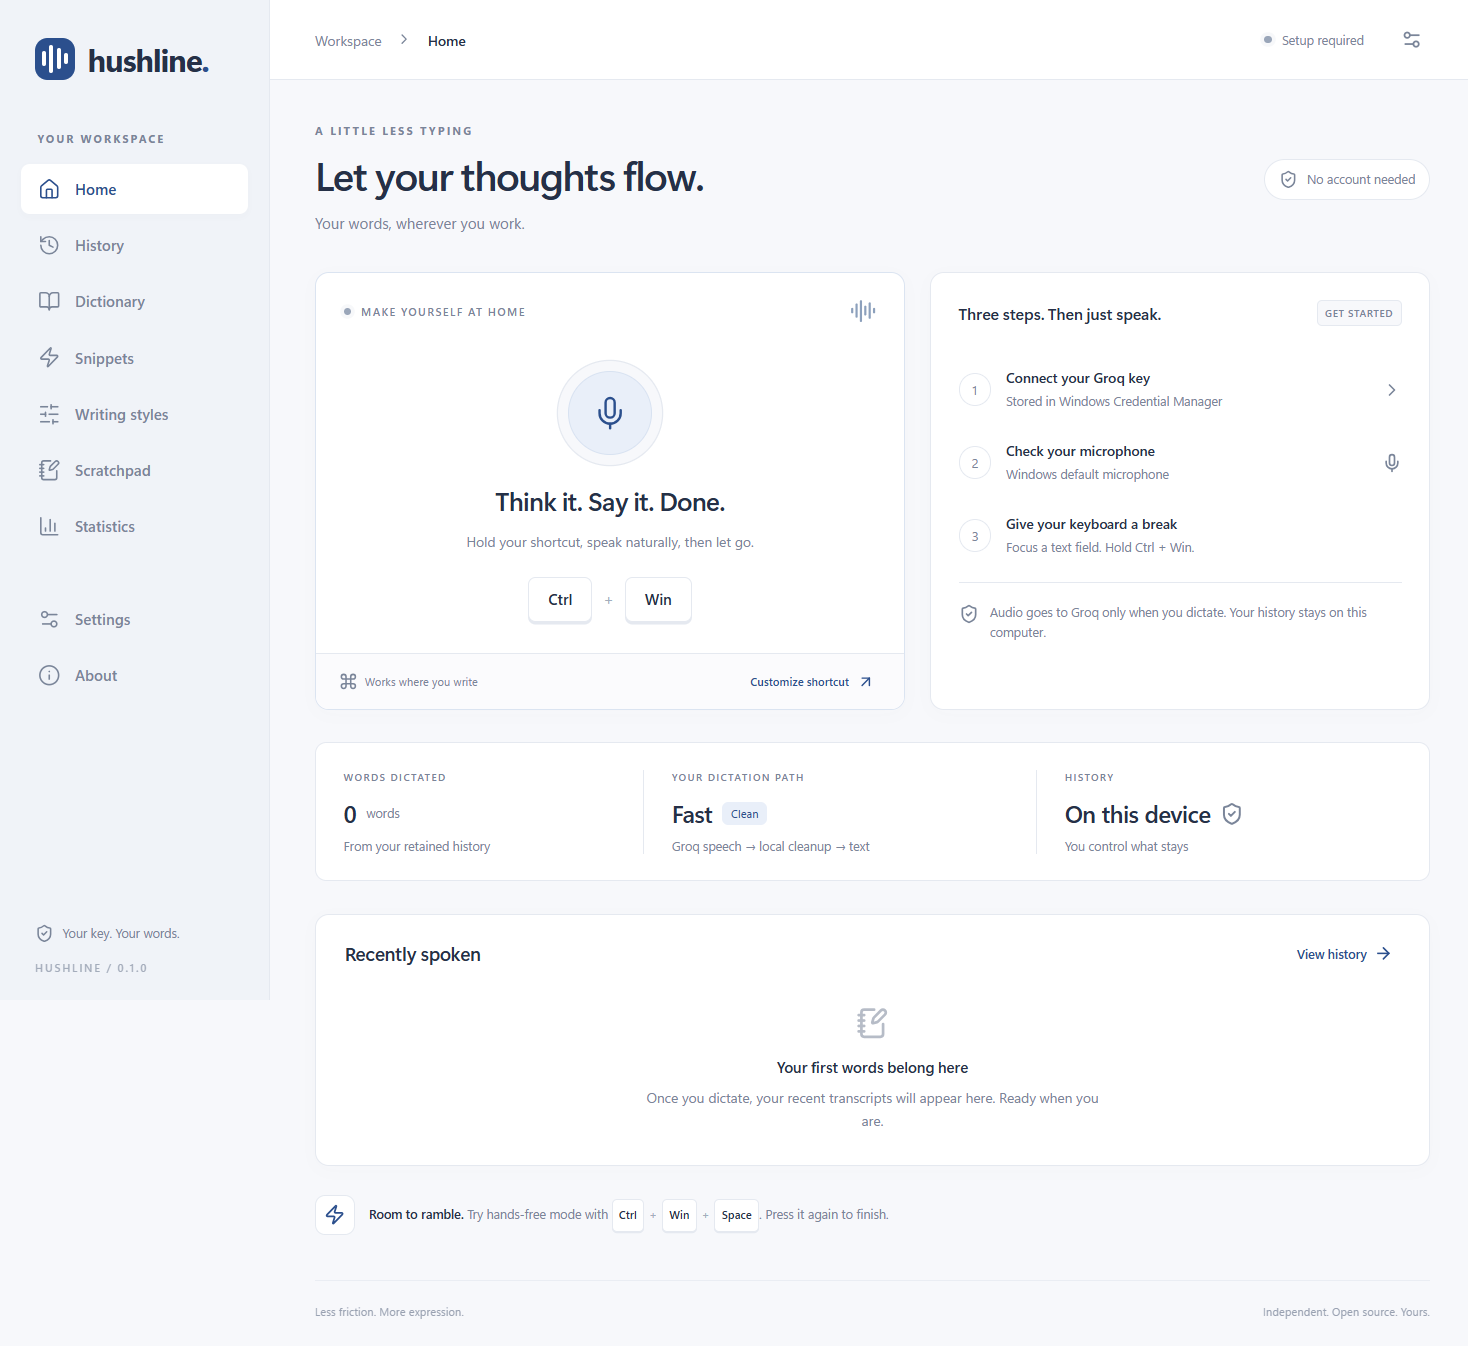
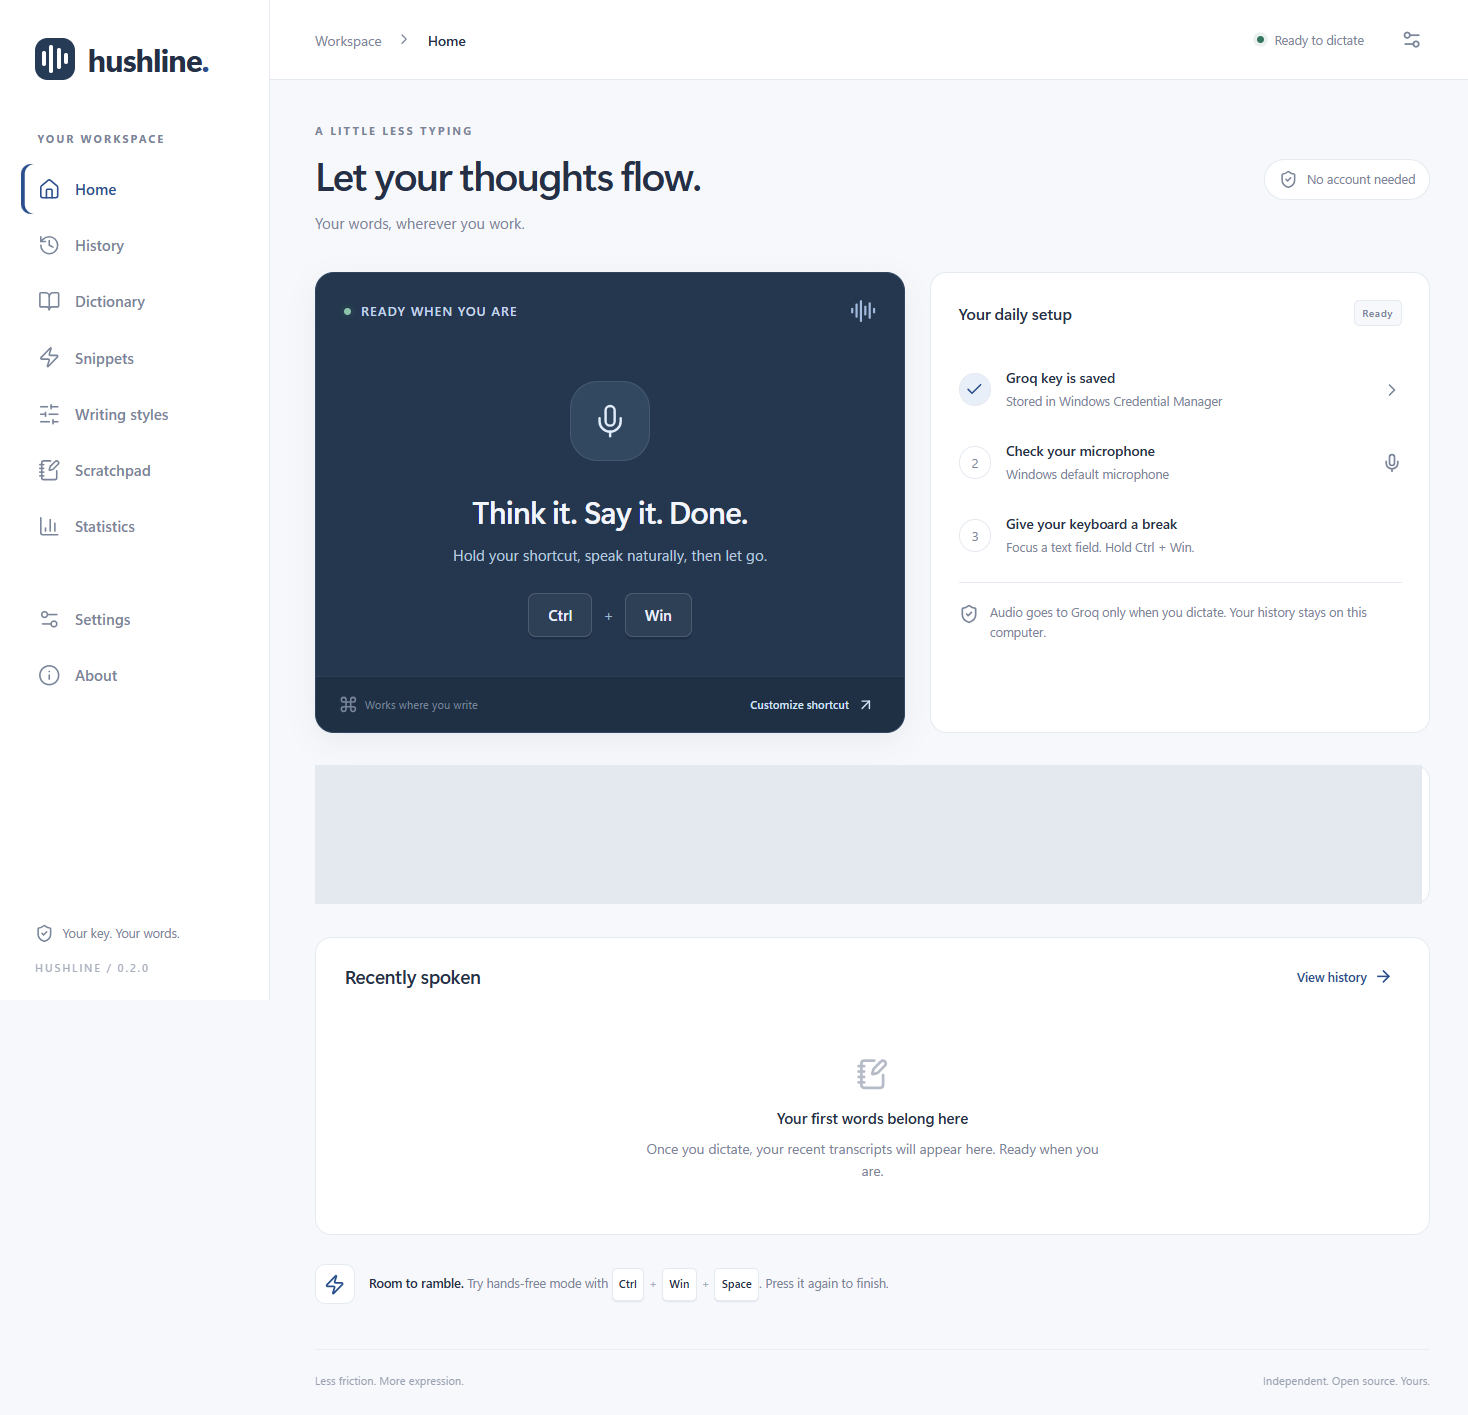
Record packaged Windows verification and measured performance for 0.2.0

diff --git a/docs/QA.md b/docs/QA.md
@@ -62,7 +62,7 @@ The first optimized executable and NSIS installer were generated successfully (7
 
 The native overlay appearance/nonactivation test passed, including forced painting of its empty initial state. A real startup exception was traced to an empty UTF-16 text buffer being passed to Windows DrawText; the guard and terminated buffer fixed it, and debug background startup then stayed alive. The release package is validated again below before handoff.
 
-## Final packaged-build result
+## 0.1.0 packaged-build baseline
 
 - Frozen-source Rust suite: **29 passed, 0 failed, 4 ignored** in the ordinary suite; Rust formatting and Clippy with warnings denied passed.
 - TypeScript unit tests: **4 passed**; interface tests: **6 passed**; TypeScript compilation and frontend lint passed.
@@ -73,3 +73,27 @@ The native overlay appearance/nonactivation test passed, including forced painti
 - **Still unverified:** live Groq speech, actual transcription-to-text delivery in Notepad/other apps, clipboard restoration after real insertion, protected-input compatibility, live Command Mode, multi-monitor/DPI scenarios, and a second-machine clean build. The interactive insertion test stopped when Windows refused foreground activation. The release gate remains closed.
 
 The sanitized JSON reports in verification/ are evidence for these specific tests. They are not live provider or full end-to-end acceptance results.
+
+## 0.2.0 update — 2026-10-19
+
+The shortcut overlap was reproduced as release-edge fall-through from HandsFree/Command/Paste to Push. The router now emits activation only on fresh key-down edges and preserves consumed key-up pairs. Regression coverage includes 100 rapid presses, modifier release order, plain Space, Escape while idle/active and more-specific chord release. The capture silence condition also incorrectly applied to hold-to-talk; it is now gated by the hands-free state. A stopping capture can be replaced by a new quick press.
+
+Executed checks: 39 Rust unit tests, 5 TypeScript tests and 8 browser UI tests passed; formatting and Clippy with warnings denied passed. Browser checks cover the offline selection, automatic layout, default paste, dock persistence and preview, and recorded/preset shortcuts, in addition to the original CRUD/private-mode/backup tests. An initial browser cold-start timeout was removed by eliminating a redundant setup navigation in fresh test contexts. A select label was made explicit. Visual inspection caught and corrected a CSS layer-order regression before delivery. Screenshots were reviewed after the fix.
+
+The real offline test downloaded and SHA-256-verified the official CPU engine and Tiny model, piped the upstream JFK WAV into the engine, parsed real output and verified a phrase from the recording. It passed. One transcription measured 2,751 ms for the approximately 11-second speech fixture; this does not prove live microphone-to-application or cloud acceptance. Raw audio was not saved by the pipeline. Actual Ollama rewriting remains unverified.
+
+The public repository was created with the owner's authorization at https://github.com/chahatesh/Hushline. Installer, native runtime and idle measurements for the packaged revision are recorded below when executed. No public release tag is created while core acceptance is incomplete.
+
+Native bar validation passed: no foreground activation, 216×40 logical-pixel bottom active size, 40×156 side active size, 24×64 side resting size, alpha 255 while active, and the hidden-idle option. Real microphone frames and cancellation passed again, with one 2,221 ms stream-ready observation while release compilation was active. This does not meet the startup ambition and is not presented as a latency guarantee. The native insertion test was reattempted and Windows again refused foreground acquisition before text dispatch; paste/restoration remains unverified in a real target application. The clipboard sentinel guard ran on exit. No focus/security restriction was bypassed.
+
+### Packaged 0.2.0 verification
+
[1 lines of base64/hex data omitted]
+
+- Real Tauri IPC/dashboard smoke passed: snapshot/secret exclusion, dictionary add/reload/delete, microphone frames/cancellation without a history entry, backup exclusion, close-to-tray and reopen through a second launch. An existing API key was detected and preserved; it was not read, replaced or used for a cloud request. The native screenshot masks sensitive history/statistics regions.
+- The actual NSIS package passed per-user silent installation, installed background launch, dependency-license presence, and uninstallation in a new workspace-owned directory. The user profile was retained. Interactive wizard, upgrade and broad application compatibility remain unverified.
+- Fresh-background working set averaged 15.94 MiB, private memory 3.46 MiB; CPU rounded to 0.000% across all logical processors. Dashboard heading observed at 3896 ms, including test setup overhead. Methodology and limits are in PERFORMANCE.md.
+- The latest instrumented real microphone run reached stream-ready in 2,006 ms (device 12 ms, format 13 ms, stream built 2,005 ms). This identifies a Windows stream-creation delay; the startup ambition remains unmet.
+- Release verification now compares evidence with the package version rather than a stale literal. It correctly rejects the incomplete acceptance report. No release tag or GitHub Release was created.
+
+See [native desktop](verification/desktop-smoke-0.2.0.json), [installer](verification/installer-test-0.2.0.json), and [update record](verification/update-0.2.0.json). Live provider-to-application delivery, real paste/restoration, actual Ollama editing, Base accuracy, mixed-DPI monitors and independent clean-machine acceptance remain open.

diff --git a/docs/PERFORMANCE.md b/docs/PERFORMANCE.md
@@ -49,7 +49,7 @@ For meaningful latency results, separately record cold/warm microphone activatio
 
 Profile the observed slow microphone initialization before changing ownership/lifetime of WASAPI resources. Investigate safe descriptor/configuration warmup and stable device IDs without silently keeping a microphone stream open. Verify dashboard release/reopen memory behavior and mixed-DPI overlay latency. The under-100 MB target remains a target until the entire process tree is measured.
 
-## Final native-overlay build measurements
+## 0.1.0 baseline native-overlay measurements
 
[1 lines of base64/hex data omitted]
 
@@ -66,3 +66,28 @@ Measured 2026-10-18T17:04:33.8343133Z on the hardware above, using the packaged 
 The background-memory target was met in this run. This is a single fresh-background observation, not a guarantee for other hardware or a measurement with the dashboard open or following live dictation. The dashboard uses WebView2 while open and consumes additional memory. Working-set sums can double-count shared pages when multiple processes exist; the final background run had only one process. Rounded zero CPU is not a claim that no CPU instruction ever executes.
 
 Full sanitized measurement records: [performance](verification/performance.json), [real desktop smoke](verification/desktop-smoke.json), [installer smoke](verification/installer-test.json). Live Groq transcription-to-insertion latency remains unmeasured.
+
+## 0.2.0 measurements — 2026-10-19
+
+- A real CPU-only Tiny Whisper run processed the upstream approximately 11-second JFK WAV in **2,751 ms**, including hidden process startup/model load and local transcript parsing. The model was newly downloaded and its pages may be in the OS cache. This is one observation, not a percentile, and excludes microphone capture, user speaking time, cloud inference and paste. The fixture and checksum are recorded in `verification/update-0.2.0.json`.
+- Native microphone setup reached stream-ready in **2,221 ms** in one debug smoke run during release compilation. It delivered frames and cancelled without an upload. This remains a startup limitation; no sub-100 ms microphone activation claim is made.
+- The voice bar's active bottom geometry is **216×40 logical pixels** and resting geometry **72×24**; the side bar is **40×156 active** and **24×64 resting**. Native tests verified opacity and focus preservation. No idle animation timer runs.
+- The web production build now transforms **48 modules**, compared with 1,765 before direct icon imports. A subsequent Vite phase took 3.08 seconds here; this is build tooling improvement, not a claimed user-facing runtime speedup. The current payload is approximately **92.82 KB JavaScript / 31.69 KB CSS**, or **31.07 KB / 7.18 KB gzip**.
+- Paste is now the default and sends four key events for one paste operation, rather than two events per UTF-16 code unit. Two redundant UIA inspections were removed. These are code-path improvements; actual insertion speed/compatibility is still unverified because Windows denied focus to the owned insertion harness. The 600-ms clipboard restoration wait remains conservative.
+
+The earlier 16.61 MiB result is a **0.1.0 baseline**, not a claim about this revision. Offline model inference and an external Ollama service have additional memory/CPU requirements while active; the fresh background measurement excludes resident models and does not include an unrelated local Ollama service.
+
+A later instrumented real-device debug run reached stream-ready in **2,006 ms**: device selection at 12 ms, configuration at 13 ms, and stream creation completed at 2,005 ms. The delay is concentrated in Windows audio-stream creation. Frames and cancellation passed. These are individual observations, not a statistical latency study; the microphone is not kept open while idle to hide this cost.
+
+### Packaged 0.2.0 background run
+
[1 lines of base64/hex data omitted]
+
+| Measurement | Result |
+| --- | --- |
+| Mean / peak working set | **15.94 / 15.94 MiB** |
+| Mean private memory | **3.46 MiB** |
+| CPU across all logical processors | **0.000% at the sampling resolution** |
+| Dashboard launch-to-heading observation | **3896 ms**, including test-only CDP overhead |
+
+This is one fresh-background run on the hardware above, not a guarantee or a measurement during inference. Model decoding and the open dashboard add resource use. Rounded zero CPU does not mean no CPU instructions execute. The earlier dashboard smoke observation was 4,770 ms; neither is a pure cold-start percentile. The live microphone-to-target path remains unmeasured. See [background record](verification/performance-0.2.0.json).

diff --git a/README.md b/README.md
@@ -5,7 +5,7 @@
 
 Hushline is an independent, open-source Windows dictation application built with Rust, Tauri 2, and SolidJS. Hold a shortcut, say what you mean, and insert the result in the field where you were working. Choose Groq cloud recognition with your own API key, or download a local Whisper pack for offline dictation. Local automatic layout adds notes, bullets, and paragraphs without another AI call.
 
-**Release status: pre-release, with live acceptance pending.** The native pipeline and desktop interface are implemented, but live speech → Groq → insertion has not been verified in this environment. Do not treat this as a production-complete Wispr Flow replacement. The earlier 0.1 build measured 16.61 MiB working set and 3.61 MiB private memory in one documented 20-sample run; see the report for the current build; the dashboard consumes additional memory while open. Silent installation, native settings/key storage, microphone cancellation, and dashboard close/reopen passed. The exact feature and test status is recorded in [FEATURES](docs/FEATURES.md), [QA](docs/QA.md), and [performance report](docs/PERFORMANCE.md). A public release is blocked until core acceptance checks pass.
+**Release status: pre-release, with live acceptance pending.** The native pipeline and desktop interface are implemented, but live speech → Groq → insertion has not been verified in this environment. Do not treat this as a production-complete Wispr Flow replacement. The 0.2 build averaged 15.94 MiB working set and 3.46 MiB private memory in one documented 20-sample background run; an open dashboard or active local model adds resource use. Silent installation, native settings/key storage, microphone cancellation, and dashboard close/reopen passed. The exact feature and test status is recorded in [FEATURES](docs/FEATURES.md), [QA](docs/QA.md), and [performance report](docs/PERFORMANCE.md). A public release is blocked until core acceptance checks pass.
 
 Hushline is not affiliated with, endorsed by, or an official product of Wispr Flow. All project branding and original code were created independently.
 
@@ -15,6 +15,7 @@ Hushline is not affiliated with, endorsed by, or an official product of Wispr Fl
 
 - Push-to-talk, hands-free recording, editable shortcuts, optional double-tap activation, Escape cancellation, tray lifecycle, and a nonactivating waveform overlay.
 - Native WASAPI capture through CPAL, energy-based silence detection, bounded recording duration, in-memory 16 kHz mono WAV encoding, and asynchronous Groq speech requests.
+- Optional offline Whisper Tiny/Base packs with verified downloads, local notes/bullets/paragraph layout, and optional editing through an installed local Ollama model. Tiny file transcription was tested; live offline delivery and Ollama editing remain unverified.
 - Fast mode by default: Whisper transcription → conservative local cleanup → insertion. An extra text-model call happens only when enhanced/polished processing or a matching AI writing style is enabled, or in Command Mode.
 - Windows protection/focus checks, default one-action clipboard paste with guarded restoration, optional compatibility Unicode typing, and last-transcript recovery. Changed/unknown targets retain text for manual paste.
 - SQLite history, personal dictionary, exact-trigger multiline snippets with previews, writing styles by executable name, scratchpad, statistics, and configuration backup.
